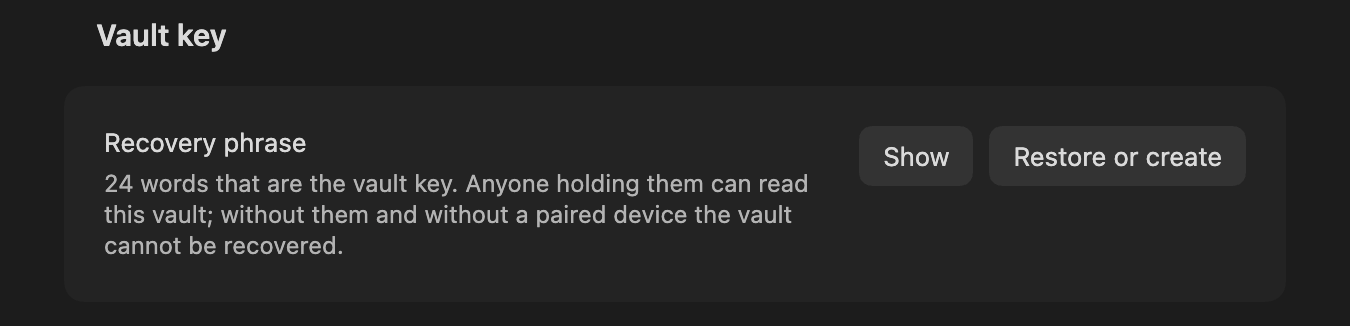
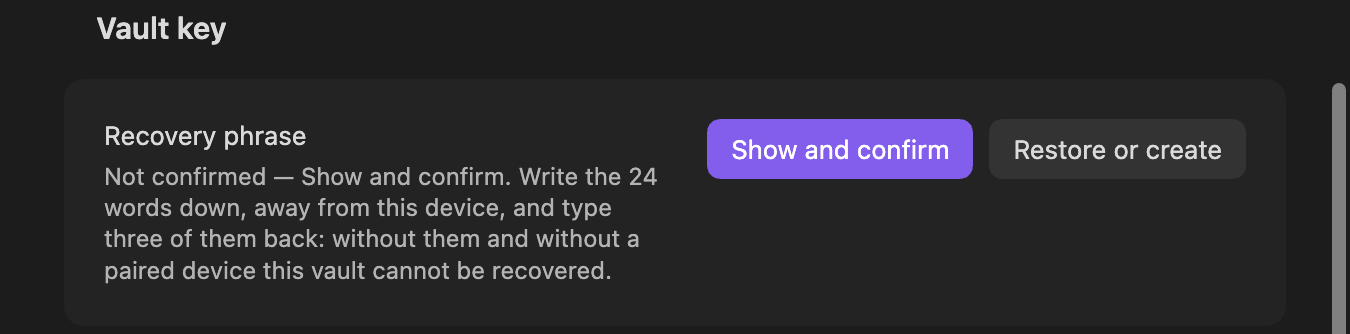
Show 1.1.4's settings, Leave dialog, pairing dialog and recovery check as they draw (#201)
Problem. Six CAPTURE(1.1.4) slots in settings.md, quickstart.md and
troubleshooting.md had no image. Two published images showed pre-1.1.4
text: the quickstart's Server settings still labelled the headers box
"edge headers", and the Vault key image showed only the confirmed row.

Captures. From a real Obsidian 1.13.4 profile (macOS, isolated rig, a
disposable vault on a loopback obsyncd, the 1.1.4 train build at 40fa48b),
driven over its DevTools port and cropped to the section or dialog. Each
was masked in the page before the shot, and the mask was checked in the
same step:
- Server section: the Server URL shows the documentation host
  `https://sync.example.org`, typed into the page only and never saved (the
  device's real address stayed in its state). Custom request headers are
  empty.
- Pair a new device: the one-time code replaced by bullets. The dialog was
  closed afterwards; no device claimed it.
- Recovery phrase check: all 24 words replaced by bullets, and the three
  answer fields empty. The dialog was closed without confirming.
- Leave this server: text only (no address, no device). Cancelled; the
  device stayed paired.
- Vault key: the "Not confirmed — Show and confirm" row.

Changes.
1. docs/assets: settings-server.png, pair-new-device.png and
   settings-vault-key.png replaced; settings-leave.png and
   recovery-check.png added (44-128 KB each).
2. docs/settings.md: the Server, Leave and Vault key images, with alt text
   saying what each shows.
[…]

Changed region(s): [[0.0622, 0.3374, 0.9022, 0.8589], [0.9644, 0.2454, 1.0, 1.0], [0.0622, 0.0613, 0.1867, 0.1534]]

diff --git a/docs/quickstart.md b/docs/quickstart.md
@@ -90,7 +90,7 @@ Obsidian's native secret storage; unavailable storage stops setup and sync.
    plain `http://127.0.0.1:8080` for a server on that same machine; Obsidian
    on iOS and Android refuses plain HTTP.
 
-   ![The plugin's settings tab: the Server URL field holding a demo host name, the edge headers box, and the Connection row with its Check and Open dashboard buttons](assets/settings-server.png)
+   ![The plugin's settings tab: the Server URL field holding a demo host name, the Custom request headers box, and the Connection row with its Check and Open dashboard buttons](assets/settings-server.png)
 
 4. Under **Sync folders on this device**, choose **Selected folders only**
    if the vault also contains code or files you do not want shared, and
@@ -120,7 +120,8 @@ Obsidian's native secret storage; unavailable storage stops setup and sync.
    If you closed the dialog without the check,
    [write the phrase down now](troubleshooting.md#you-closed-the-recovery-phrase-without-checking-it).
 
-   <!-- CAPTURE(1.1.4): the recovery phrase check, with every word hidden and the three answer fields empty -->
+   ![The recovery phrase dialog: 24 numbered words, every one hidden here, and three answer fields for words 3, 11 and 20, empty](assets/recovery-check.png)
+
 7. Sync starts. The status bar shows the state; the command **Sync now**
    forces a pass, and **Show sync status** explains what it is doing.
 
@@ -208,8 +209,6 @@ server with its own certificate authority, see
    an `obsidian://obsync-private-sync/pair?code=...` link you can send yourself.
 
    ![The Pair a new device dialog on the first device, its code obscured, with Copy code and Copy link buttons and the line Waiting for the new device](assets/pair-new-device.png)
-
-   <!-- CAPTURE(1.1.4): the Pair a new device dialog with its code hidden, as 1.1.4 draws it -->
 
 3. On the phone, open **Pair this device** in the settings tab, paste the code
    under **Pairing code** and tap **Pair** — or open the link, which is the

diff --git a/docs/settings.md b/docs/settings.md
@@ -22,7 +22,7 @@ device can change it for you.
 
 ## Server
 
-<!-- CAPTURE(1.1.4): the Server section: Server URL, Custom request headers and the Connection row, host masked -->
+![The Server section: Server URL holding a demo host name, Custom request headers empty, and the Connection row with Check and Open dashboard](assets/settings-server.png)
 
 | Setting | Default | What it does | When to change it |
 | --- | --- | --- | --- |
@@ -90,7 +90,7 @@ active remotely and the dialog explains the upgrade requirement. Pairing again i
 server's current note at the same path stays one note, and one that differs
 keeps both versions for you to review ([`conflicts.md`](conflicts.md)).
 
-<!-- CAPTURE(1.1.4): the Leave this server dialog, naming what is kept and what is lost -->
+![The Leave this server dialog: every note stays, the 24 words still open the same vault, and what is lost is this device's sync identity, with Cancel and Leave](assets/settings-leave.png)
 
 ## Devices
 
@@ -103,9 +103,7 @@ a revoked device is paired again as a new device.
 
 ## Vault key
 
-![The Vault key section: the Recovery phrase row with Show and Restore or create](assets/settings-vault-key.png)
-
-<!-- CAPTURE(1.1.4): the Recovery phrase row when the phrase has not been confirmed yet -->
+![The Vault key section: the Recovery phrase row reading Not confirmed, with Show and confirm and Restore or create](assets/settings-vault-key.png)
 
 | Setting | What it does |
 | --- | --- |

diff --git a/docs/troubleshooting.md b/docs/troubleshooting.md
@@ -486,7 +486,7 @@ device is lost. The server never has it and cannot give it back.
 3. Check them word by word. Never type them into a screenshot, a chat or an
    issue.
 
-<!-- CAPTURE(1.1.4): the Recovery phrase row saying the phrase is not confirmed yet -->
+![The Recovery phrase row reading Not confirmed, with Show and confirm and Restore or create](assets/settings-vault-key.png)
 
 ## On Linux, the keys may not be in a keyring
 
